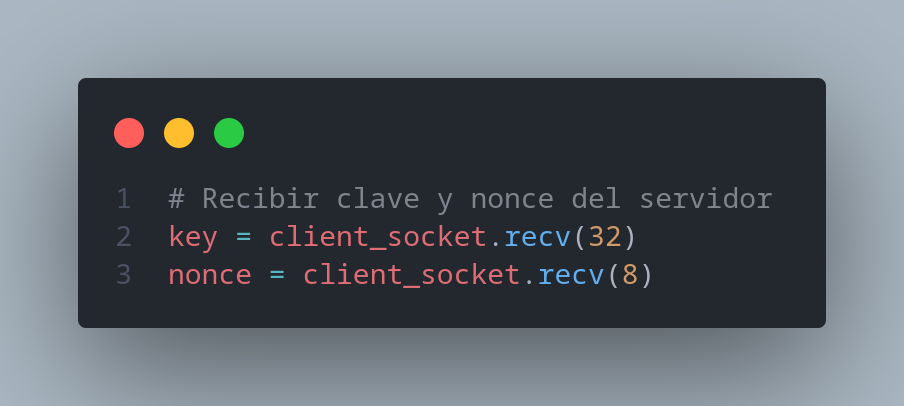
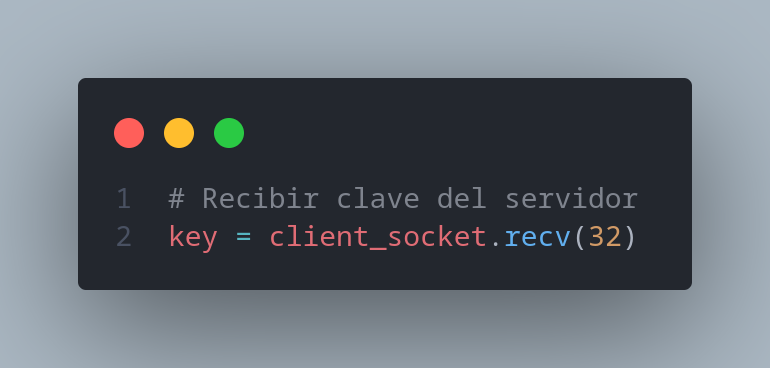
Refactor Salsa20 encryption and decryption functions to use combined nonce and ciphertext

Changed region(s): [[0.0623, 0.1793, 0.9351, 0.8071], [0.1558, 0.5082, 0.187, 0.5679], [0.1558, 0.6277, 0.187, 0.6576]]

diff --git a/AES-256/servidor_AES.py b/AES-256/servidor_AES.py
@@ -1,0 +1,38 @@
+import socket
+from Crypto.Cipher import AES
+from Crypto.Util.Padding import pad, unpad
+from Crypto.Random import get_random_bytes
+
+# Configuración del servidor
+HOST = '0.0.0.0'
+PORT = 2020
+
+# Función para descifrar un mensaje con AES-256 CBC
+def decrypt_message(key, iv, ciphertext):
+    cipher = AES.new(key, AES.MODE_CBC, iv)
+    plaintext = unpad(cipher.decrypt(ciphertext), AES.block_size)
+    return plaintext
+
+# Crear una llave AES de 256 bits (32 bytes) y almacenarla en un archivo
+key = get_random_bytes(32)
+with open('aes_key.bin', 'wb') as key_file:
+    key_file.write(key)
+print(f"Llave AES generada y almacenada en aes_key.bin: {key.hex()}")
+
+# Crear socket del servidor
+with socket.socket(socket.AF_INET, socket.SOCK_STREAM) as server_socket:
+    server_socket.bind((HOST, PORT))
+    server_socket.listen()
+    print(f"Servidor escuchando en {HOST}:{PORT}")
+    
+    conn, addr = server_socket.accept()
+    with conn:
+        print(f"Conectado por {addr}")
+        
+        # Recibir el IV y el mensaje cifrado del cliente
+        iv = conn.recv(16)  # Recibe el IV de 16 bytes
+        ciphertext = conn.recv(1024)  # Recibe el mensaje cifrado
+        
+        # Descifrar el mensaje
+        mensaje_descifrado = decrypt_message(key, iv, ciphertext)
+        print(f"Mensaje descifrado: {mensaje_descifrado.decode('utf-8')}")

diff --git a/AES-256/cliente_AES.py b/AES-256/cliente_AES.py
@@ -1,0 +1,32 @@
+import socket
+from Crypto.Cipher import AES
+from Crypto.Util.Padding import pad
+from Crypto.Random import get_random_bytes
+
+# Configuración del cliente
+HOST = '127.0.0.1'
+PORT = 8080
+
+# Función para cifrar un mensaje con AES-256 CBC
+def encrypt_message(key, message):
+    iv = get_random_bytes(16)  # Generar un IV de 16 bytes
+    cipher = AES.new(key, AES.MODE_CBC, iv)
+    ciphertext = iv + cipher.encrypt(pad(message.encode('utf-8'), AES.block_size))
+    return ciphertext
+
+# Cargar la llave AES desde el archivo
+with open('aes_key.bin', 'rb') as key_file:
+    key = key_file.read()
+print(f"Llave AES cargada: {key.hex()}")
+
+# Crear socket del cliente
+with socket.socket(socket.AF_INET, socket.SOCK_STREAM) as client_socket:
+    client_socket.connect((HOST, PORT))
+    
+    # Mensaje a cifrar
+    mensaje_cliente = "Hola, servidor. Este es un mensaje cifrado con AES-256-CBC."
+    
+    # Cifrar el mensaje y enviar
+    mensaje_cifrado = encrypt_message(key, mensaje_cliente)
+    client_socket.sendall(mensaje_cifrado[:16])  # Enviar el IV
+    client_socket.sendall(mensaje_cifrado[16:])  # Enviar el mensaje cifrado

diff --git a/RespuestasParcial.md b/RespuestasParcial.md
@@ -2,34 +2,44 @@
 
 1. *¿Es posible interceptar la llave simétrica de 256 bits durante su transmisión desde el servidor al cliente? Explique por qué sí o no y qué implicaciones tiene esto para la seguridad de la comunicación.*
 
-    **Sí**, es posible que un atacante intercepte la clave, ya que esta es enviada por el **servidor** (como se observa en la **Imagen 1**) y es recibida por el **cliente** (como se observa en la **Imagen 2**). 
+    **Sí**, es posible que un atacante intercepte la llave, ya que esta es enviada por el **servidor** (como se observa en la **Imagen 1**) y es recibida por el **cliente** (como se observa en la **Imagen 2**). 
 
-    La interceptación de la clave **compromete completamente** el cifrado de la comunicación, ya que el atacante podría desencriptar los mensajes y obtener la información original **sin mucho esfuerzo**.
+    La interceptación de la llave **compromete completamente** el cifrado de la comunicación, ya que el atacante podría desencriptar los mensajes y obtener la información original **sin mucho esfuerzo**, en nuestro caso la llave fue obtenida al monitorear la comunicación (**imagen 3**).
 
     ---
 
     ### Implicaciones de la interceptación:
     - **Desencriptación de mensajes**: El atacante puede acceder al contenido original.
     - **Compromiso de la seguridad**: Toda la información intercambiada queda expuesta.
-
-    *Es vital implementar medidas de seguridad como el uso de cifrado asimétrico para el intercambio de claves.* 🚀
-
     
-   ![Texto alternativo](Images/Pregunta1.png)
+   ![SentKey](Images/Pregunta1.png)
     (imagen 1)
 
-    ![Texto alternativo](Images/Pregunta1.1.png)
+    ![ReceivedKey](Images/Pregunta1.1.png)
     (imagen 2)
+
+    ![Llave](Images/Key_salsa.png)
+    (imagen 3)
 
 
 
 2. *¿Qué información puede ser obtenida por un atacante que esté monitoreando el tráfico? ¿Podría descifrar los mensajes cifrados con Salsa20? Justifique su respuesta.*
 
-   Un atacante podría observar los mensajes cifrados pero no podría descifrarlos sin conocer la llave simétrica. Sin embargo, si la llave fue comprometida durante el intercambio, el atacante sí podría descifrar los mensajes.
+   Un atacante **podría observar los mensajes cifrados**, pero no podría descifrarlos sin conocer la llave simétrica. Sin embargo, si la llave fue comprometida durante el intercambio, el atacante **sí podría descifrar los mensajes**.
+
+   En nuestro caso, la llave fue comprometida (imagen 3), por lo tanto, el atacante puede obtener los mensajes y, a partir de estos, **descifrarlos** utilizando la llave, el **nonce** y el **texto cifrado**.
+
+   
+
+   Para esto, el atacante podría implementar el código que se muestra en la **Imagen 4**.
+
+   ![Codigo de desencryptar](Images/Pregunta_2.png)
+    (imagen 4)
+
 
 3. *Proporcione recomendaciones para mejorar la seguridad del intercambio de llaves en este escenario.*
 
-   Se recomienda utilizar un protocolo seguro como TLS para proteger el intercambio de llaves o implementar un algoritmo de intercambio de llaves como Diffie-Hellman para que la llave nunca sea transmitida en texto claro.
+   Se recomienda utilizar un protocolo seguro como TLS para proteger el intercambio de llaves o implementar un canala alterno, (como memoria USB, correo electrónico, o un archivo compartido en la nube).
 
 ---
 
@@ -37,12 +47,12 @@
 
 1. *¿Cuáles son las ventajas y desventajas de utilizar un canal alterno para el intercambio de llaves simétricas en comparación con el primer escenario?*
 
-   - Ventajas: Un canal alterno reduce las posibilidades de que un atacante intercepte la llave durante la transmisión en red.
-   - Desventajas: Requiere más esfuerzo logístico y si el canal alterno no es seguro, la llave podría ser comprometida.
+   - **Ventajas**: Un canal alterno reduce las posibilidades de que un atacante intercepte la llave durante la transmisión en red.
+   - **Desventajas**: Requiere más esfuerzo logístico y si el canal alterno no es seguro, la llave podría ser comprometida.
 
 2. *¿Es posible que un atacante obtenga la llave simétrica de 256 bits en este escenario? ¿Por qué?*
 
-   Si el canal alterno es seguro, es improbable que un atacante obtenga la llave. Sin embargo, si el canal alterno es comprometido, un atacante podría acceder a la llave.
+   Es **menos probable** que un atacante obtenga la llave simétrica en este escenario, ya que la transmisión de la llave se realiza por un canal distinto al de la comunicación regular.En nuestro caso es imposible obtener la llave simetrica, ya que no tenermos como obtener acceso al otro canal.
 
 3. *Si el atacante logra capturar los paquetes cifrados con AES-256 en modo CBC, ¿podría descifrar los mensajes? Explique las posibles vulnerabilidades que podrían existir (por ejemplo, ataques de relleno).*
 
